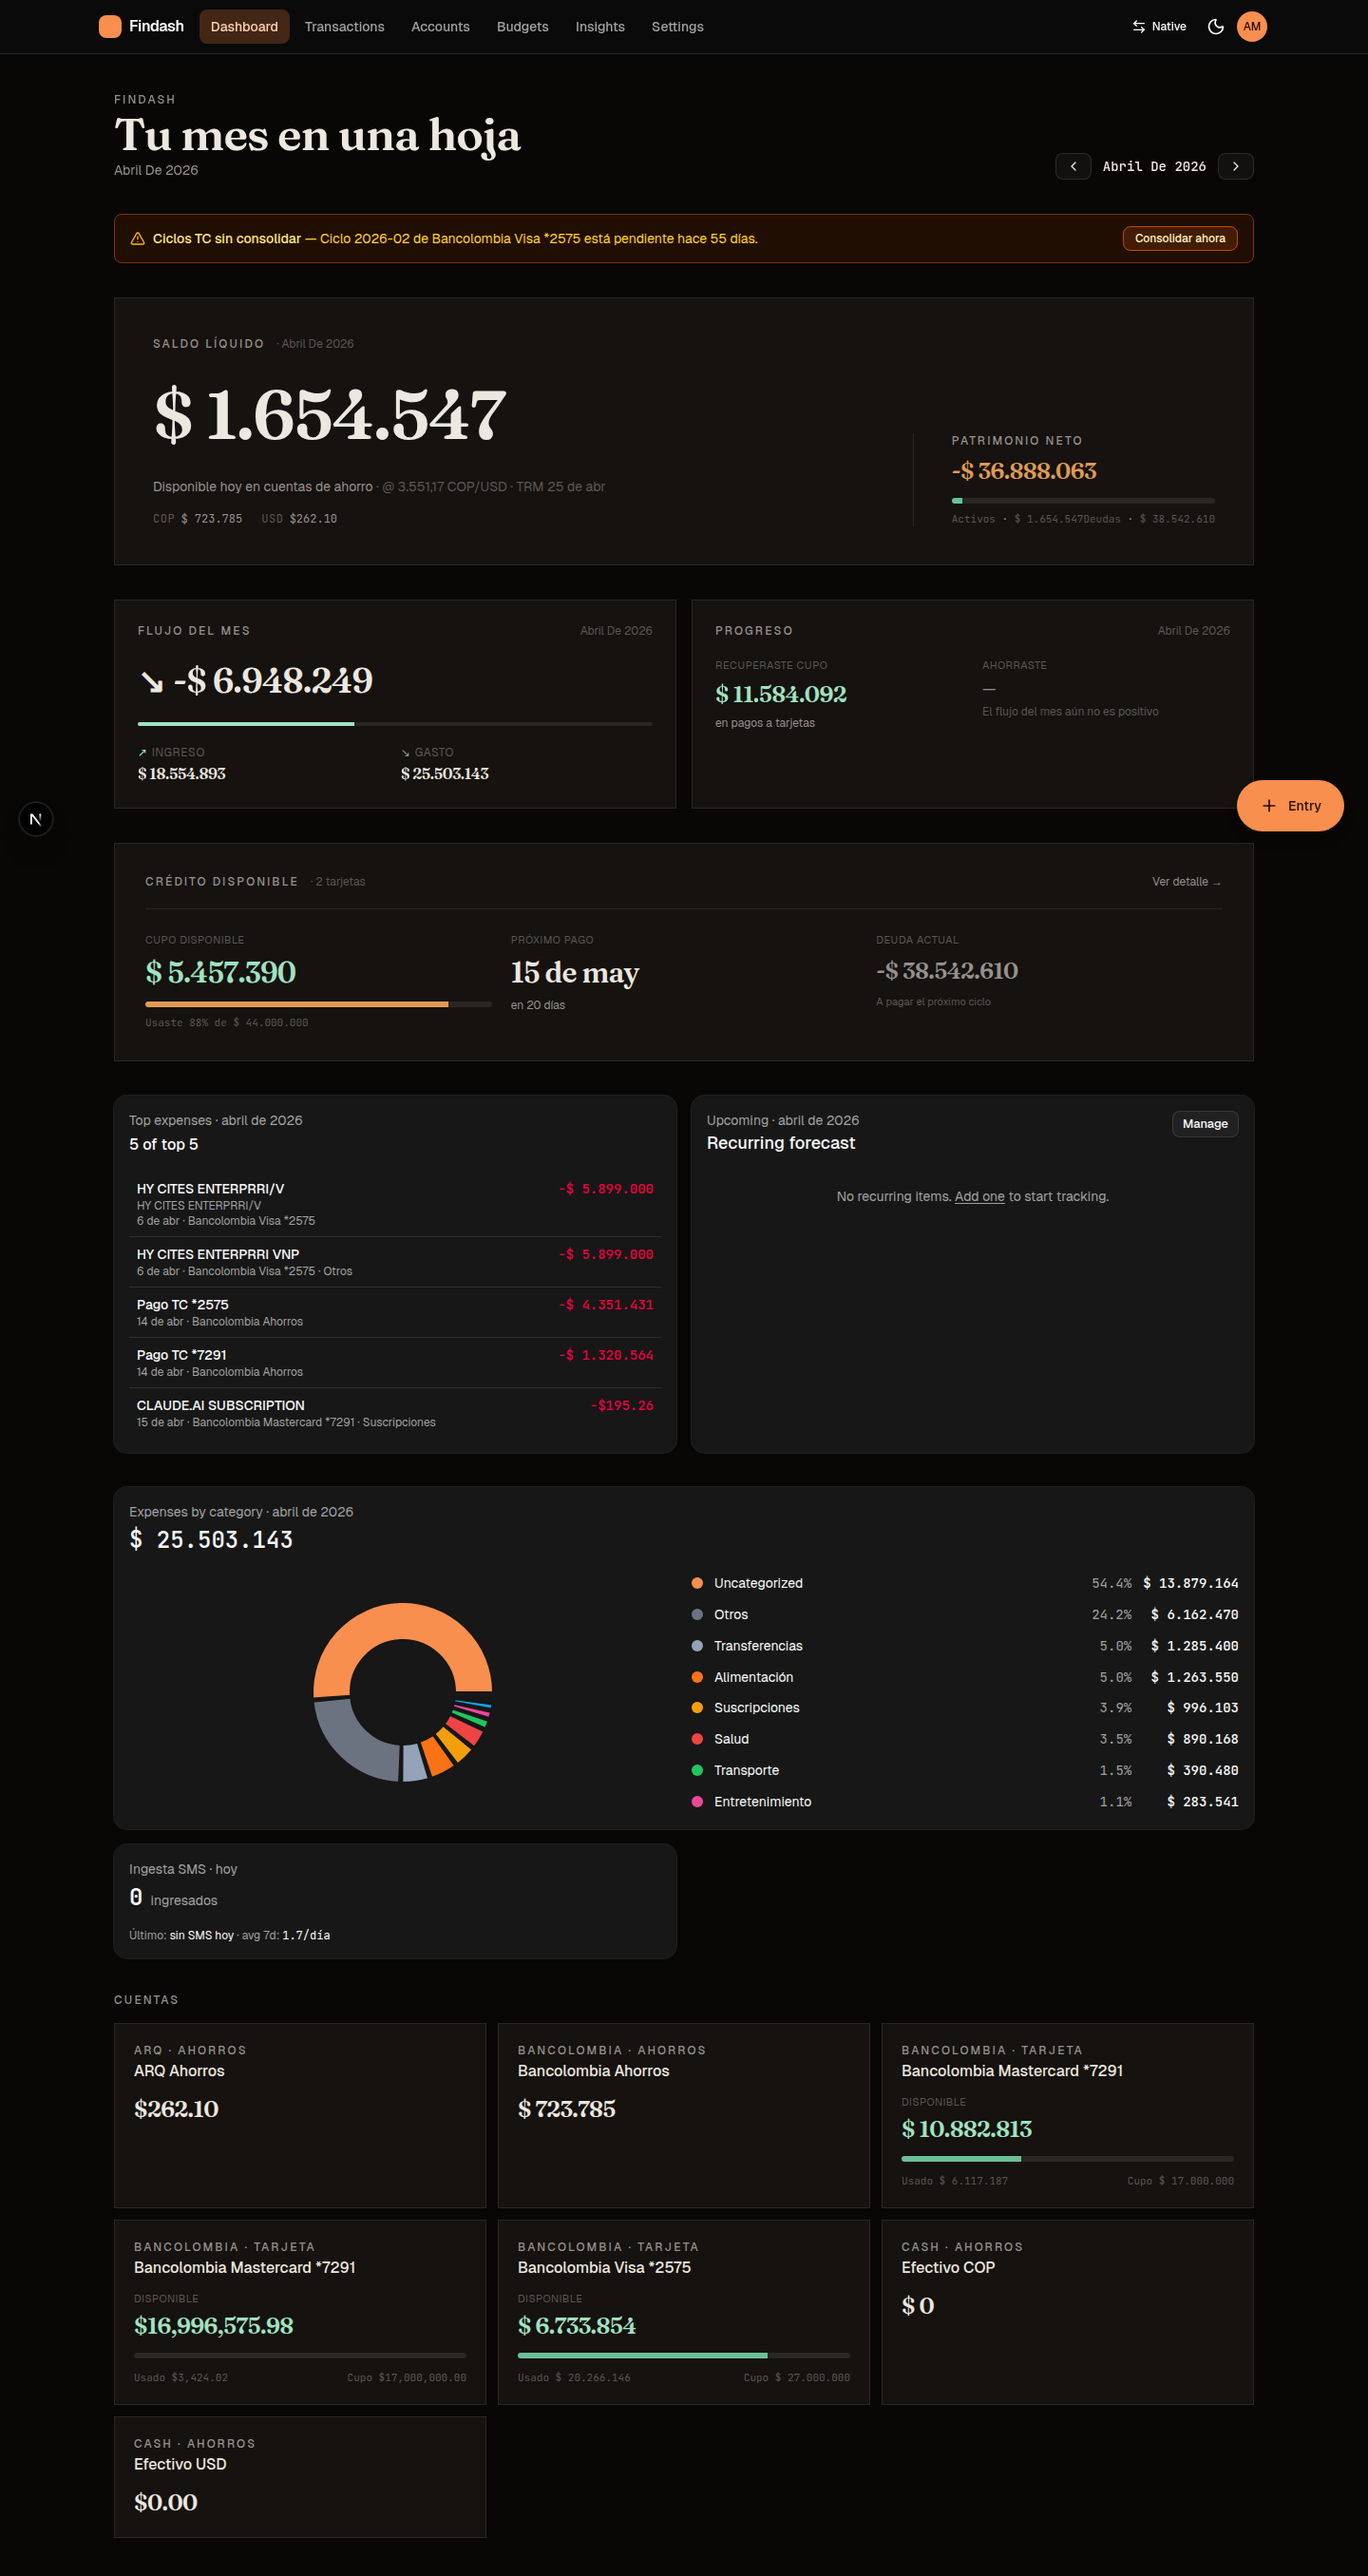
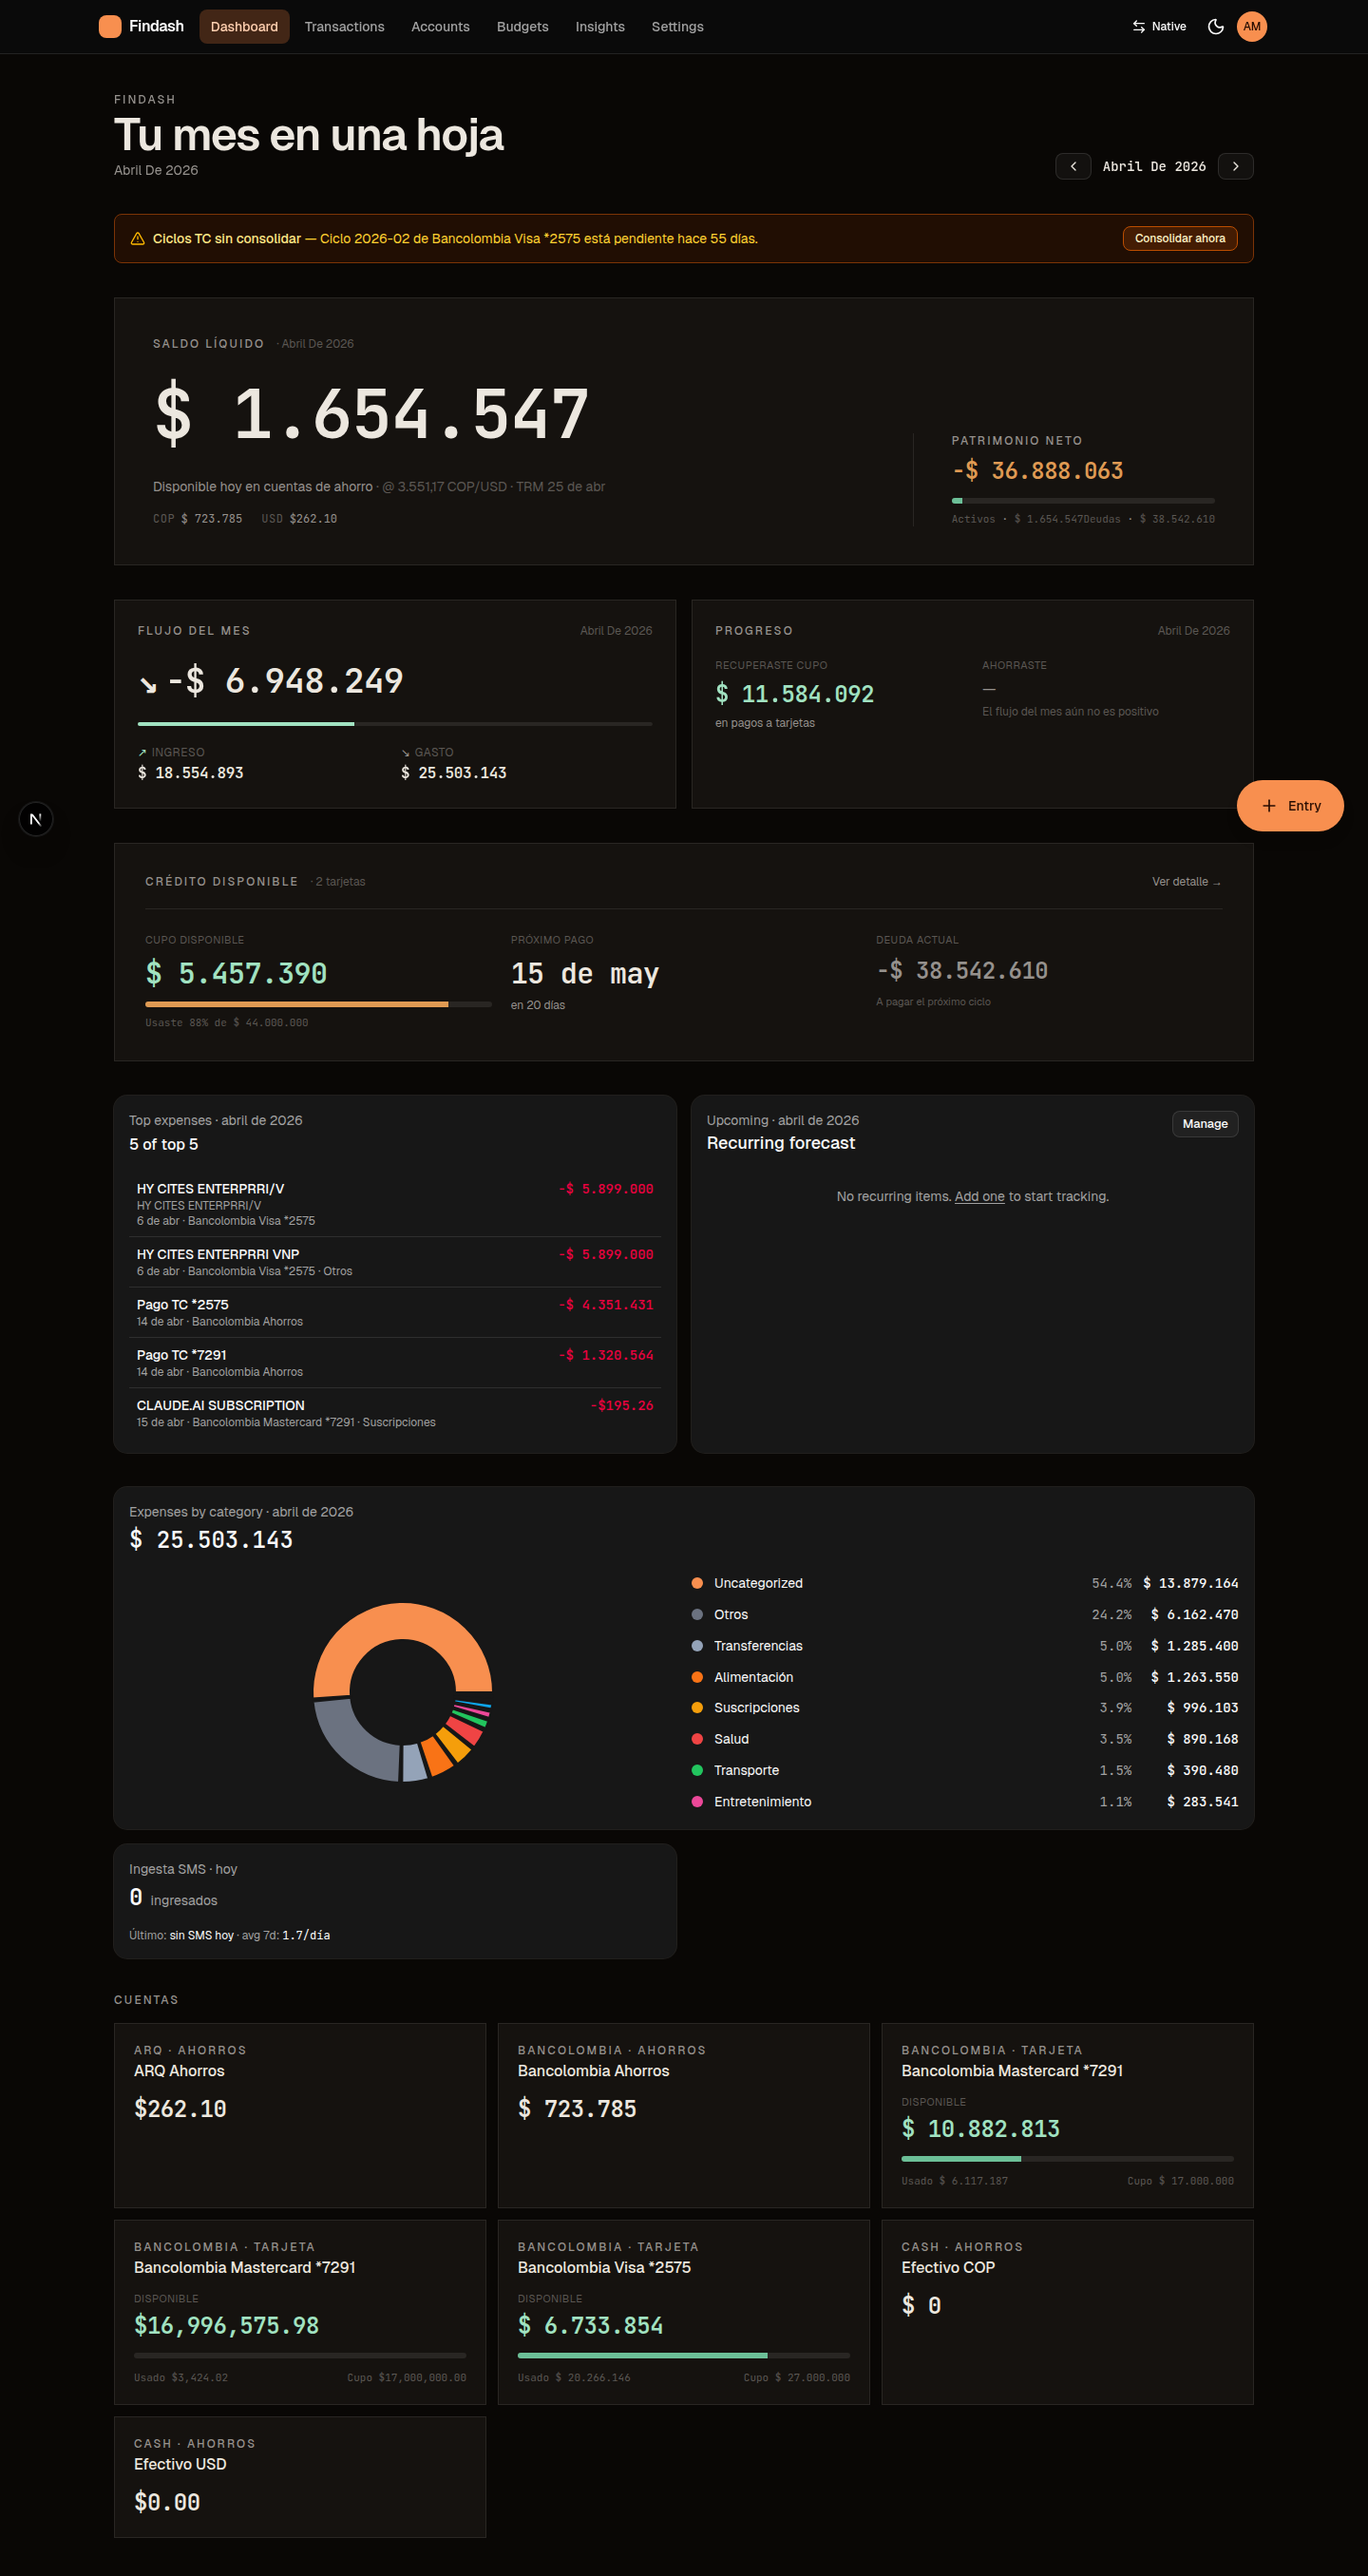
chore(dashboard): drop Fraunces, keep Geist + JetBrains Mono (#491)
User review on the redesign found the serif display too distinctive for
their taste. The Editorial Calm direction is preserved through the warm
paper palette, botanical-green accent, eyebrows, asymmetric hero, and
generous whitespace — the serif was carrying less weight than expected.

- layout.tsx: remove Fraunces import / variable / className mount
- globals.css: --font-display now points to Geist; text-serif-display
  becomes a sans display utility (-0.03em tracking, semibold);
  money-hero uses JetBrains Mono with tabular nums for the numeric hero
- docs screenshots refreshed to reflect the final type system

No behavioral change; visual only.

diff --git a/src/app/globals.css b/src/app/globals.css
@@ -10,7 +10,7 @@
   --font-sans: var(--font-geist-sans);
   --font-mono: var(--font-geist-mono);
   --font-heading: var(--font-geist-sans);
-  --font-display: var(--font-fraunces);
+  --font-display: var(--font-geist-sans);
   --font-numeric: var(--font-jetbrains-mono);
 
   /* Editorial Calm — paper / ink / botanical accent tokens (dashboard) */
@@ -223,19 +223,19 @@
 
 /* === Editorial Calm — typography utilities === */
 @utility text-serif-display {
-  font-family: var(--font-display), ui-serif, Georgia, serif;
-  font-feature-settings: "ss01", "ss02";
-  letter-spacing: -0.02em;
+  font-family: var(--font-display), ui-sans-serif, system-ui, sans-serif;
+  letter-spacing: -0.03em;
+  @apply font-semibold;
 }
 @utility text-eyebrow {
   @apply text-xs font-medium tracking-[0.18em] uppercase;
   color: var(--ink-muted);
 }
 @utility money-hero {
-  font-family: var(--font-display), ui-serif, Georgia, serif;
-  font-feature-settings: "tnum", "ss01";
+  font-family: var(--font-numeric), ui-monospace, monospace;
+  font-feature-settings: "tnum";
   font-variant-numeric: tabular-nums;
-  letter-spacing: -0.025em;
+  letter-spacing: -0.02em;
   @apply font-semibold;
 }
 

diff --git a/src/app/layout.tsx b/src/app/layout.tsx
@@ -1,5 +1,5 @@
 import type { Metadata } from "next";
-import { Fraunces, Geist, Geist_Mono, JetBrains_Mono } from "next/font/google";
+import { Geist, Geist_Mono, JetBrains_Mono } from "next/font/google";
 import "./globals.css";
 import { Toaster } from "@/components/ui/sonner";
 import { ThemeProvider } from "@/components/providers/theme-provider";
@@ -20,12 +20,6 @@ const jetbrainsMono = JetBrains_Mono({
   weight: ["400", "500", "600"],
 });
 
-const fraunces = Fraunces({
-  variable: "--font-fraunces",
-  subsets: ["latin"],
-  display: "swap",
-});
-
 export const metadata: Metadata = {
   title: "Findash",
   description: "Personal financial dashboard",
@@ -40,7 +34,7 @@ export default function RootLayout({
     <html
       lang="en"
       suppressHydrationWarning
-      className={`${geistSans.variable} ${geistMono.variable} ${jetbrainsMono.variable} ${fraunces.variable} h-full antialiased`}
+      className={`${geistSans.variable} ${geistMono.variable} ${jetbrainsMono.variable} h-full antialiased`}
     >
       <body className="flex min-h-full flex-col">
         <ThemeProvider
